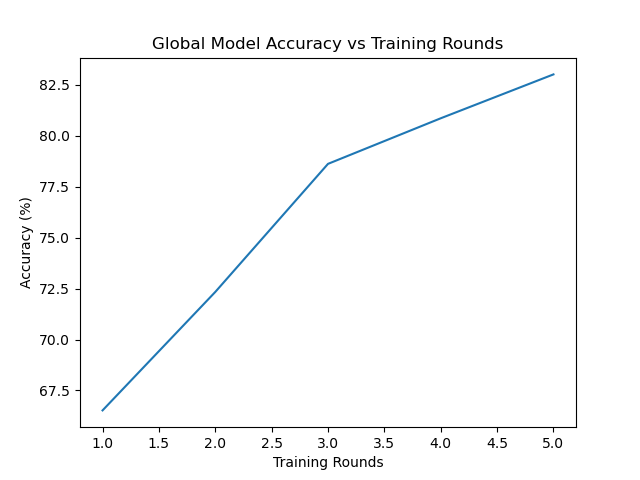
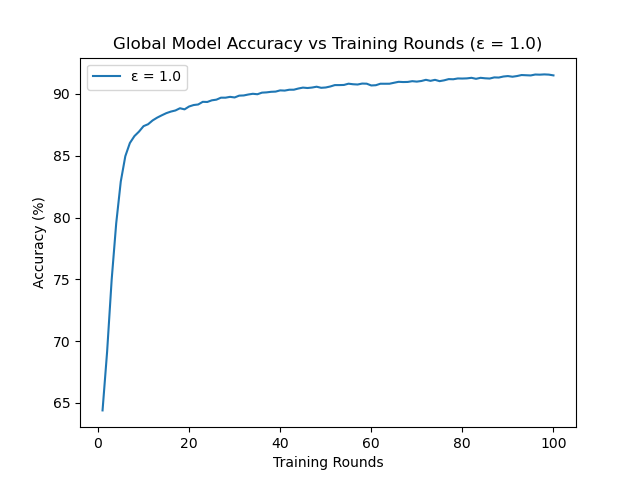
Results

diff --git a/DP_FL.py b/DP_FL.py
@@ -169,7 +169,7 @@ class FederatedLearning:
 
 # Main function
 def main():
-    dataset_choice = "cifar10"
+    dataset_choice = "mnist"
     #dataset_choice = input("Choose dataset (mnist/cifar10): ").strip().lower()
     if dataset_choice == "mnist":
         dataset = mnist_dataset
@@ -184,7 +184,7 @@ def main():
     num_clients = 2
     rounds = 100
     epochs = 1
-    epsilon = 10.0
+    epsilon = 0.1
     #num_clients = int(input("Enter number of clients: "))
     #rounds = int(input("Enter number of training rounds: "))
     #epochs = int(input("Enter number of epochs per round: "))
